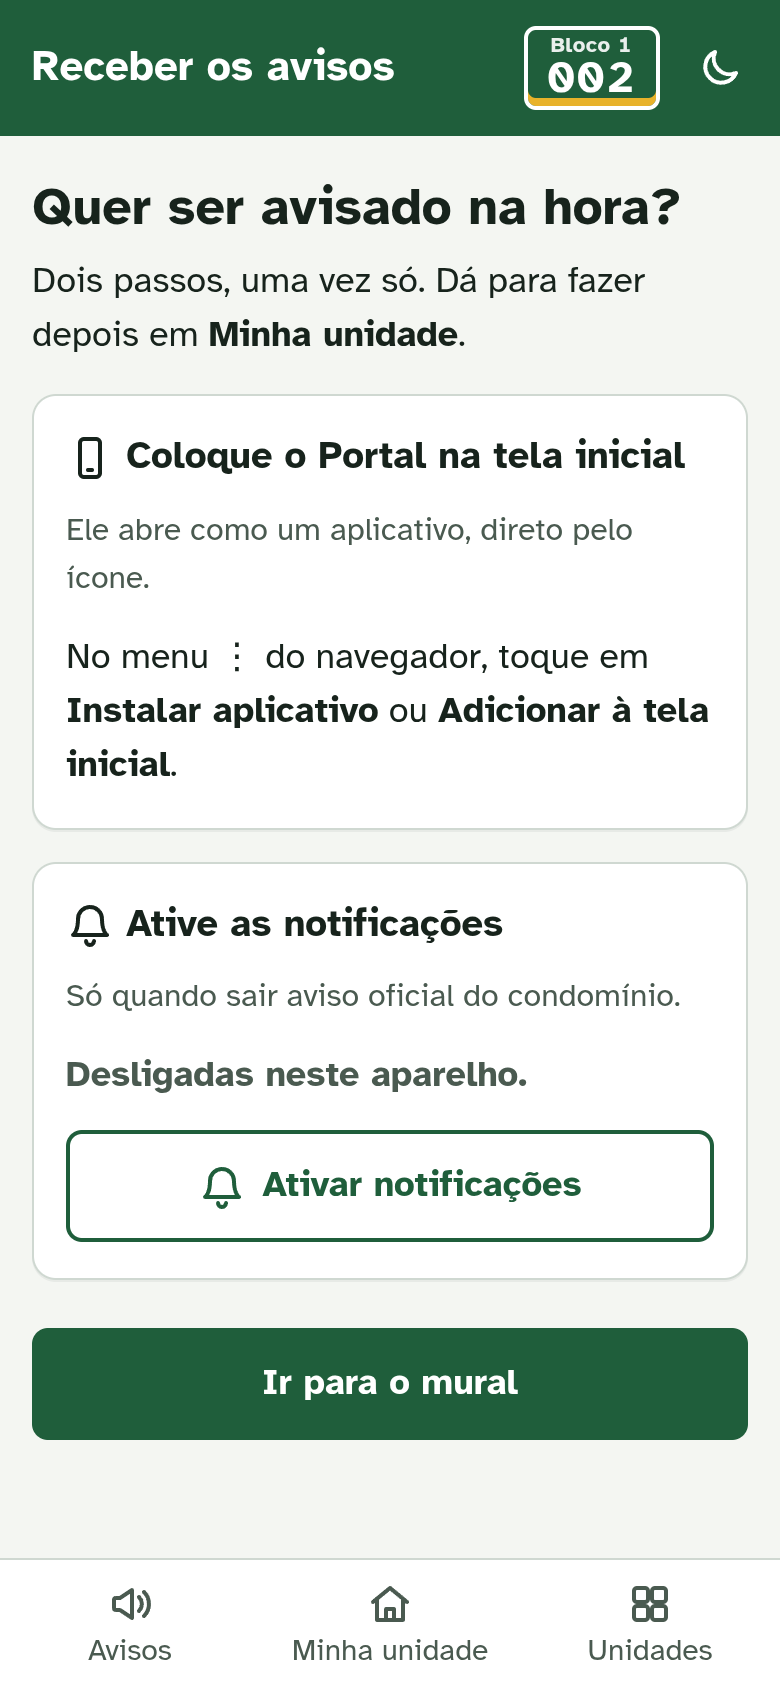
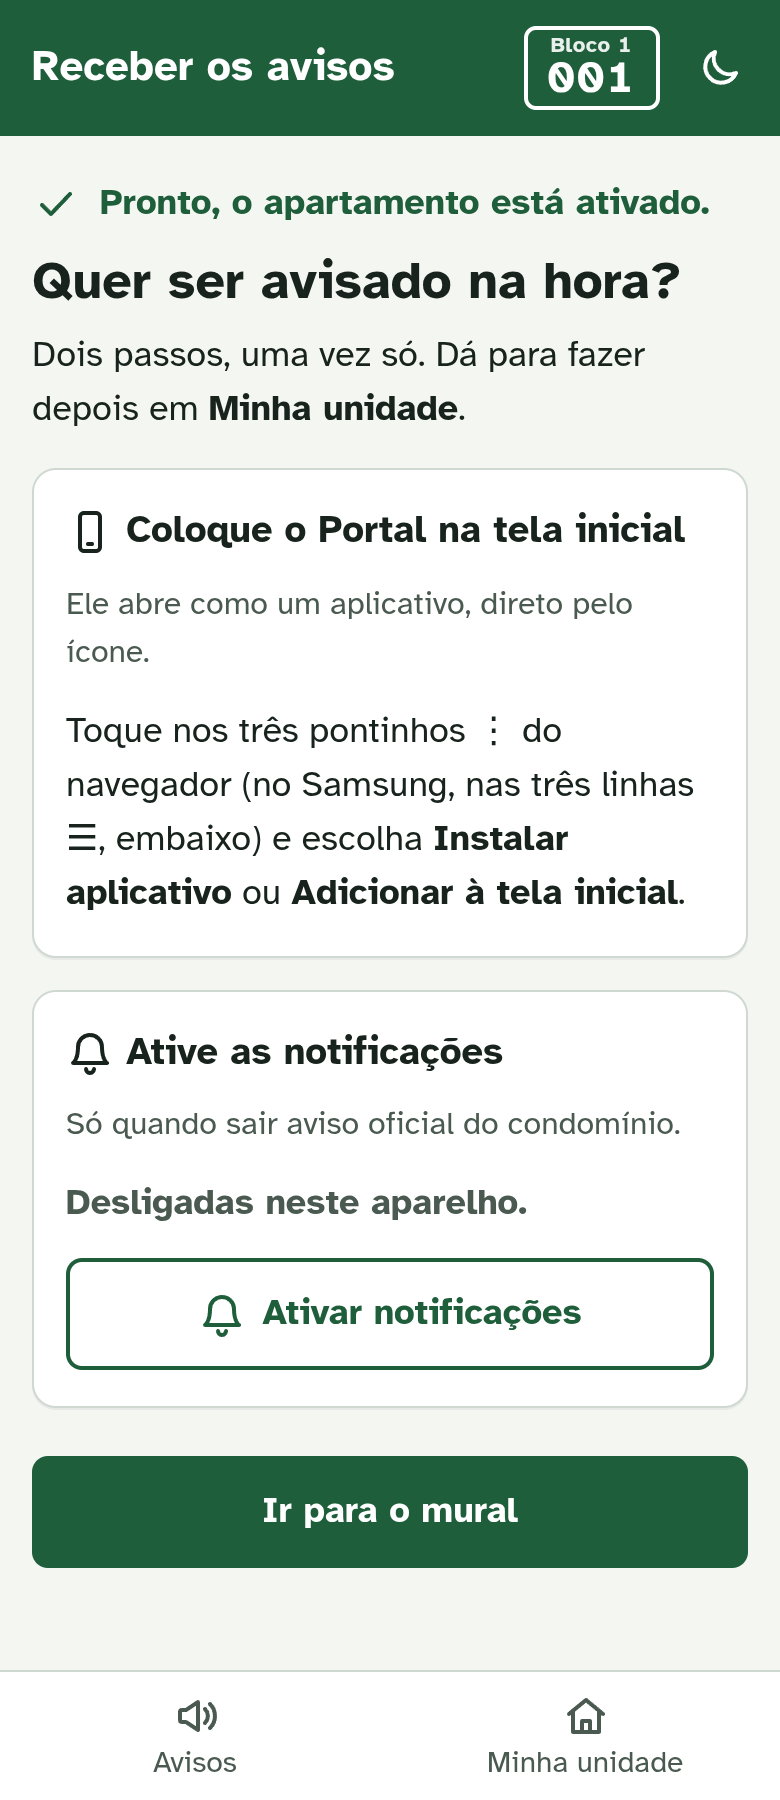
docs: dúvidas, spec e prints do épico A depois das revisões

diff --git a/docs/superpowers/duvidas-m2-push.md b/docs/superpowers/duvidas-m2-push.md
@@ -17,17 +17,12 @@ atenção no merge.
 - **No merge:** o épico B também vai mexer no `it` do épico B do `m2contrato.test.ts`. Conflito
   pequeno e previsível: ficar com a versão do A para o primeiro `it` e a do B para o segundo.
 
-## 2. Oferta "uma vez por aparelho" e o segundo celular da casa **[Erick]**
+## 2. Oferta "uma vez por aparelho" e o segundo celular da casa (resolvido na revisão)
 - **Dúvida:** H-05 diz "depois do primeiro acesso, o Portal oferece uma vez". O primeiro acesso
-  acontece uma vez por **apartamento**; o celular do cônjuge entra pela tela de entrar e nunca
-  passa por ele.
-- **Decisão:** a oferta aparece depois do primeiro acesso, marcada no `localStorage` do
-  aparelho (`portal-oferta-avisos`). O segundo celular acha tudo em Minha unidade
-  (seção "Notificações" e o link "Como instalar o Portal na tela inicial").
-- **Por quê:** mostrar a oferta depois de qualquer entrada exigiria mexer em `Entrar.tsx`
-  (comum, do M1). Se o portão do M2 mostrar que o segundo celular não acha, a saída é uma faixa
-  "Receba os avisos neste celular" no mural, para quem ainda não ativou (precisa do
-  coordenador).
+  acontece uma vez por **apartamento**; o celular do cônjuge e o iPhone que acabou de instalar
+  (o app instalado não divide o login com o Safari) nunca passam por ele.
+- **Decisão:** a oferta continua depois do primeiro acesso, e o mural ganhou a faixa "Falta um
+  passo" (item 13), que alcança os dois casos.
 
 ## 3. Botão "Ativar notificações" leve, e "Ir para o mural" cheio
 - **Decisão:** como no protótipo (`#instalar`): o botão cheio da oferta é "Ir para o mural";
@@ -58,11 +53,16 @@ atenção no merge.
   continua precisando de internet, como hoje. O teste `web/testes/pwa.test.ts` falha se alguém
   puser `fetch` ou `caches.` no `sw.js`.
 
-## 7. Reinscrição sozinha (sem perguntar)
-- **Decisão:** ao abrir o Portal, se a permissão já foi dada e o navegador tem inscrição, o
-  Portal confere a API e, se a sessão desta vez não tem inscrição (entrou de novo, trocou a
-  senha, foi desconectado e entrou de novo) ou a chave mudou, inscreve de novo. O
+## 7. Reinscrição sozinha (sem perguntar), só para a unidade que ativou
+- **Decisão:** ao abrir o mural (ou Minha unidade, ou a oferta), se a permissão já foi dada, o
+  navegador tem inscrição **e foi esta unidade que ativou neste navegador** (`localStorage`
+  `portal-push-unidade`), o Portal confere a API e, se a sessão desta vez não tem inscrição
+  (entrou de novo, trocou a senha) ou a chave mudou, inscreve de novo. O
   `pushsubscriptionchange` do service worker faz o mesmo quando o navegador troca a inscrição.
+- **Revisão:** antes, a unidade B que entrasse no navegador onde a A ativou herdava as
+  notificações. Agora sair do Portal desfaz a inscrição do navegador (`SessaoProvider`, mudança
+  mínima num arquivo comum **[coordenador]**) e só a unidade dona é reinscrita. Sem
+  `localStorage`, ninguém é reinscrito sozinho (o seguro).
 - **Por quê:** trocar a senha encerra as sessões e leva as inscrições junto (contrato 2.1); sem
   isso, o celular do casal pararia de receber em silêncio depois de uma troca de senha. Quem
   desativou não é reinscrito: "Desativar" desfaz a inscrição do navegador também. Custo: um
@@ -106,3 +106,33 @@ para o Bloco 2, conferir `/api/avisos/{id}/envios`.
 ## 12. Nada de banco, versão ou novidades
 - Nenhuma migração nova (a 0005 já tinha tudo), nenhuma mudança em `web/package.json` ou
   `novidades.ts` (o coordenador faz a 1.2.0 no merge).
+
+## 13. Faixa "Falta um passo" no mural (revisão de UX) **[coordenador]**
+- **Decisão:** componente `FaixaNotificacoes`, encaixado no topo do mural (`Mural.tsx`, uma
+  linha, arquivo comum). Aparece só quando dá para ativar de verdade: push ligado no servidor,
+  aparelho que recebe (no iPhone, aberto pelo ícone), permissão não negada e este aparelho sem
+  inscrição. "Ativar" pede a permissão direto do toque; "Agora não" esconde por **30 dias**
+  neste aparelho (`localStorage` `portal-faixa-avisos-ate`).
+- **Por quê 30 dias:** o convite tem de voltar um dia (quem disse "agora não" pode mudar de
+  ideia, e o mural é onde a pessoa está), mas raramente o bastante para não virar cobrança.
+  Também aparece no Android sem instalar (o push funciona no navegador), não só instalado.
+
+## 14. Revisão de código: o que mudou
+- **SSRF** (bloqueava): o endpoint é validado pelo mesmo parser do envio (urllib3) e pelo
+  `urlsplit`, e só aceita caracteres de URL, sem `\`, espaço, `%`, `@` ou porta no host. O
+  envio revalida cada endpoint antes do POST. Host em maiúsculas continua aceito (o teste de
+  contrato `maiusculas` já aceitava, e os dois parsers baixam para minúsculas); recusadas as
+  variantes de ataque em maiúsculas.
+- **Prazo por destino:** conferido antes de cada POST, com tempo limite `(5, 5)`; o pior caso
+  passa do prazo comum em ~10 s (240 + 10 < 300).
+- **Trava das inscrições mortas:** em vez de commitar por lote (o contrato diz que `enviar` não
+  faz commit em `db`), as mortas são apagadas num DELETE só, no fim do envio: a trava dura só
+  até o commit de quem chama, logo depois. Fica aberta a transação de leitura do
+  `destinos_push` durante o envio (sem trava de linha).
+- **Teste com o pywebpush de verdade** em modo curl, em `tmp_path` (o modo curl grava
+  `encrypted.data` na pasta atual; o arquivo que tinha ficado em `api/` foi apagado).
+
+## 15. Admin fictício do `dados_ficticios`
+- Existe: em local e teste, a **primeira unidade sorteada** e ativada pelo comando vira admin
+  (e as duas seguintes, Comissão). Não é a 1101 (essa é a do `conftest.py` dos testes). Na
+  conferência visual deste épico, foi a 1-002.

diff --git a/docs/superpowers/specs/m2-push.md b/docs/superpowers/specs/m2-push.md
@@ -121,10 +121,14 @@ Ao ativar: o pedido de permissão sai **do toque** (exigência do iPhone); recus
 só fechou. Erro da API (409 limite, 503 desligado, sem conexão): a mensagem da API numa
 `CaixaDeErro`, e a inscrição local é desfeita para não ficar meio ligada.
 
-**Sincronização ao abrir o Portal** (`registrarServiceWorker`): se a permissão já foi dada e o
-navegador tem inscrição, confere `GET /api/notificacoes`; se a sessão desta vez não tem
-inscrição (entrou de novo, trocou a senha) ou a chave do servidor mudou, inscreve de novo sem
-perguntar nada. Sem permissão ou sem inscrição local, não faz nenhuma requisição.
+**Sincronização** (mural, Minha unidade e oferta): se a permissão já foi dada, o navegador
+tem inscrição e foi esta unidade que ativou neste navegador, confere `GET /api/notificacoes`;
+se a sessão desta vez não tem inscrição (entrou de novo, trocou a senha) ou a chave do
+servidor mudou, inscreve de novo sem perguntar nada. Sair do Portal desfaz a inscrição do
+navegador.
+
+**Faixa no mural** (revisão): "Falta um passo: ative as notificações para saber dos avisos na
+hora." com "Ativar" e "Agora não" (30 dias), só no estado `inativa`.
 
 ### 3.4 Cache
 
